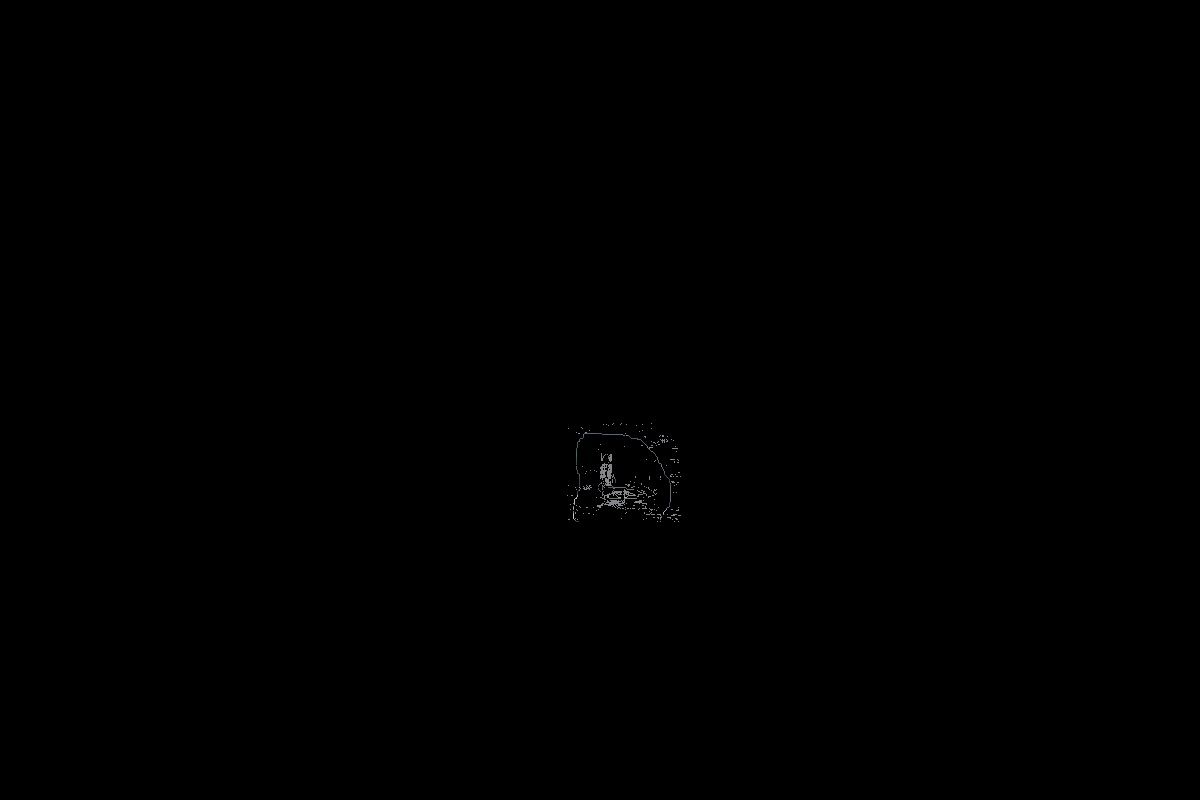
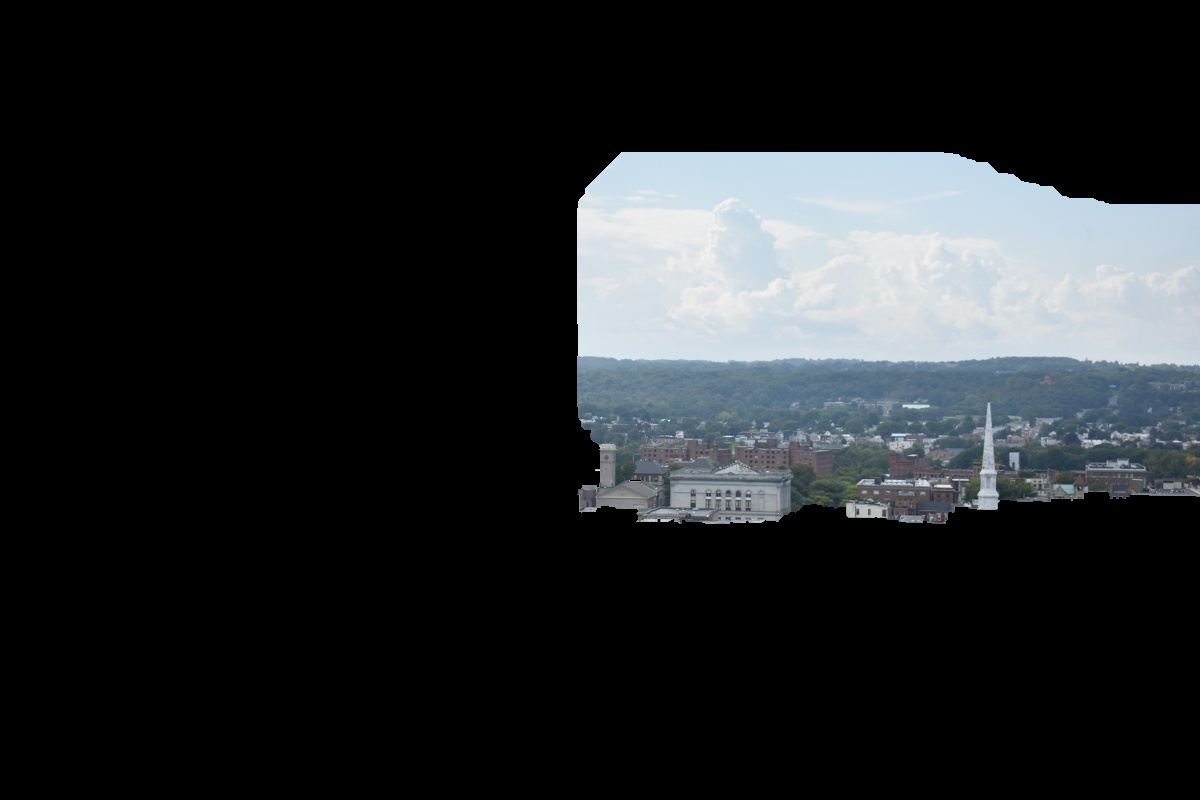
Implemented OpenCV instead

Changed region(s): [[0.4625, 0.1875, 1.0, 0.6562]]

diff --git a/hw2/problem2.py b/hw2/problem2.py
@@ -143,8 +143,6 @@ class SegmentationWidget(Widget):
         #create the graph and do initialization
         self.g = maxflow.Graph[int]()
         self.nodes = self.g.add_grid_nodes(self.flatShape)
-        self.structure = np.array([[0, 1, 0],[1, 0, 1],[0, 1, 0]])
-
 
         self.f = np.zeros(self.flatShape)
         self.b = np.full(self.flatShape,np.inf,dtype=np.float)
@@ -204,6 +202,17 @@ class SegmentationWidget(Widget):
 
             #change the draw type
             self.firstTouch = False
+            self.bgdModel = np.zeros((1,65),np.float64)
+            self.fgdModel = np.zeros((1,65),np.float64)
+
+            #the opencv implementation
+            self.mask = np.zeros(self.flatShape,dtype=np.uint8)
+
+            self.mask[self.f == np.inf] = 1
+            self.mask[self.b == np.inf] = 0
+
+            cv2.grabCut(self.img,self.mask,(xs[0],ys[0],xs[1],ys[1]),self.bgdModel,self.fgdModel,5,cv2.GC_INIT_WITH_RECT)
+
         else:
             points = touch.ud['line'].points
             for i in range(1,len(points) // 2):
@@ -226,15 +235,24 @@ class SegmentationWidget(Widget):
                         self.f[data[1]][data[0]] = 0.
                         self.b[data[1]][data[0]] = np.inf
 
+            self.mask[self.f == np.inf] = 1
+            self.mask[self.b == np.inf] = 0
+
+            #the opencv implementation
+            self.mask, self.bgdModel, self.fgdModel =cv2.grabCut(self.img,self.mask,None,self.bgdModel,self.fgdModel,5,cv2.GC_INIT_WITH_MASK)
         
-        #do all the graph stuff
-        segments = self.cut()
+        #do all the graph stuff, our implementation (broken)
+        #segments = self.cut()
 
         #remove the lines and update the graph based on this line
         self.canvas.clear()
 
         #create the new image and display it
-        self.imgOut = (self.img * segments.astype(int)).astype(np.uint8)
+        #self.imgOut = (self.img * segments.astype(int)).astype(np.uint8)
+        
+        #alternatively
+        mask2 = np.where((self.mask==2)|(self.mask==0),0,1).astype('uint8')
+        self.imgOut = self.img*mask2
 
         self.texture.blit_buffer(self.imgOut.tostring(), bufferfmt="ubyte", colorfmt="bgr")
 
@@ -258,29 +276,31 @@ class SegmentationWidget(Widget):
         cv2.imwrite('bWeights2.jpg', self.wb)
         self.wb = np.flip(self.wb,axis=0)
 
-        self.w = np.flip(self.w, axis=0)
-        cv2.imwrite('weights2.jpg', self.w)
-        self.w = np.flip(self.w,axis=0)
-
     '''
     All the graph work goes here
     '''
     def cut(self):
-
-
-        
+     
         fMean = np.average(self.intensity[self.f>=1])
         bMean = np.average(self.intensity[self.b>=1])
 
         self.wf = -lamb * np.log(np.abs(self.intensity - fMean)/(np.abs(self.intensity - fMean)+np.abs(self.intensity - bMean)))
         self.wb = -lamb * np.log(np.abs(self.intensity - bMean)/(np.abs(self.intensity - bMean)+np.abs(self.intensity - fMean)))
 
+        self.wf = np.maximum(self.wf ,self.f )
+        self.wb = np.maximum(self.wb ,self.b )
+
         diff = np.abs(np.gradient(self.intensity.reshape(self.flatestShape)))
-        diff = np.average(diff, axis = 0).reshape(self.flatShape)
-        self.w = np.exp(-np.square(diff) / (2 * np.square(sigma)))
+        #diff = np.average(diff, axis = 0).reshape(self.flatShape)
+        self.wx = np.exp(-np.square(diff[0]) / (2 * np.square(sigma))).reshape(self.flatShape)
+        self.wy = np.exp(-np.square(diff[1]) / (2 * np.square(sigma))).reshape(self.flatShape)
 
         #add the weights to the grid
-        self.g.add_grid_edges(self.nodes, weights=self.w, structure=self.structure,symmetric=False)
+        structureX= np.array([[0, 0, 0],[1, 0, 1],[0, 0, 0]])
+        structureY = np.array([[0, 1, 0],[0, 0, 0],[0, 1, 0]])
+
+        self.g.add_grid_edges(self.nodes, weights=self.wx, structure=structureX,symmetric=False)
+        self.g.add_grid_edges(self.nodes, weights=self.wy, structure=structureY,symmetric=False)
 
         # Add the terminal edges.  The [2] are the capacities
         # of the edges from the source node.  The [3]
